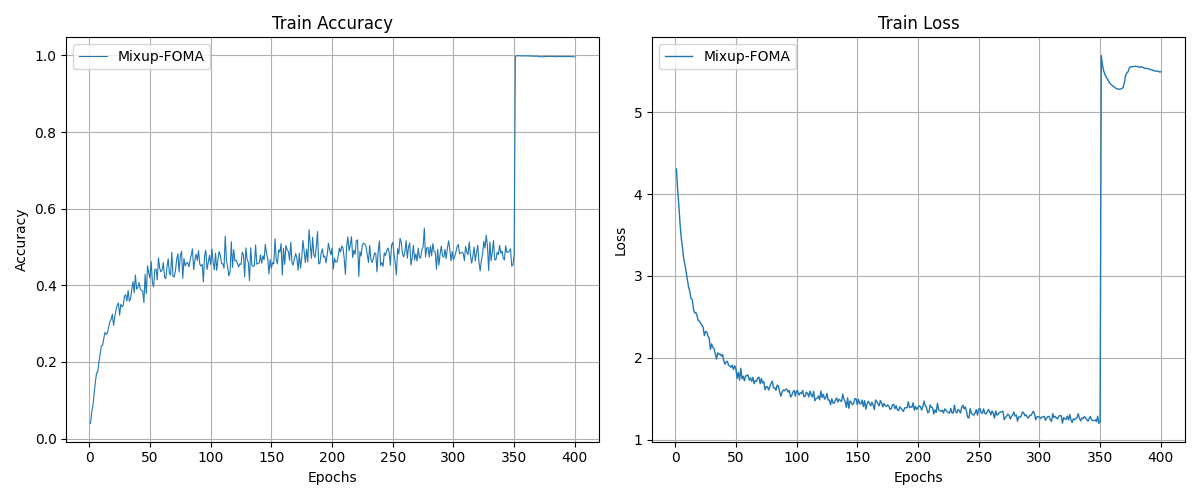
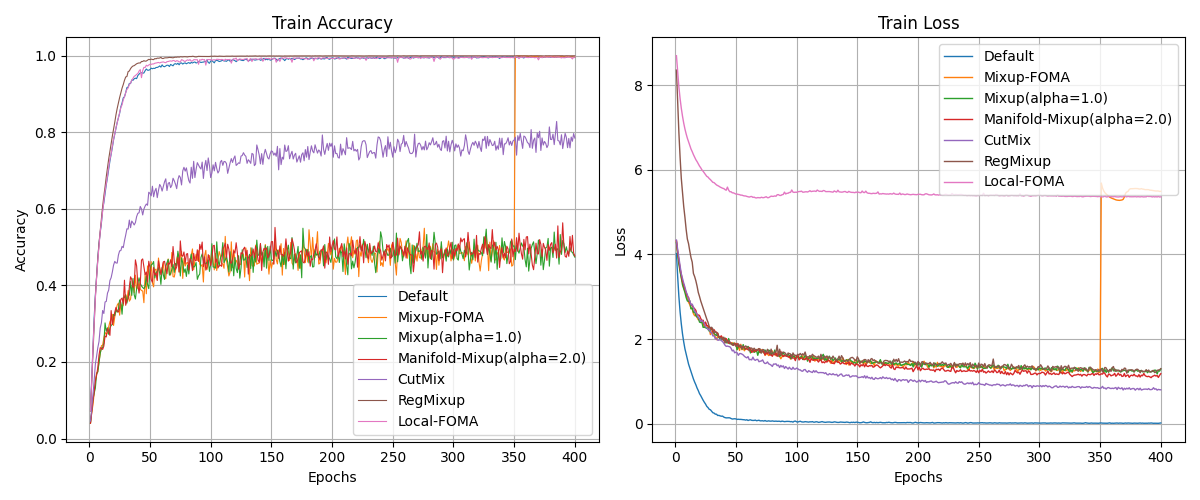
mixup-foma

diff --git a/result.py b/result.py
@@ -19,7 +19,7 @@ def main():
     
     augmentations = [
         # "Original",
-        # "Default",
+        "Default",
         # "PCA",
         # "SVD",
 
@@ -28,17 +28,18 @@ def main():
         # "Mixup+FOMA",
         # "Mixup(alpha=0.5)",
         "Mixup-FOMA",
+        "Mixup",
         # "Mixup(alpha=2.0)",
         # "Mixup(alpha=5.0)",
         # "Manifold-Mixup(alpha=0.5)",
         # "Manifold-Mixup(alpha=1.0)",
-        # "Manifold-Mixup",
+        "Manifold-Mixup",
         # "Manifold-Mixup(alpha=5.0)",
         # "Mixup-Curriculum",
 
-        # "CutMix",
+        "CutMix",
         # "AugMix",
-        # "RegMixup",
+        "RegMixup",
 
         # "Ent-Mixup",
         # "SK-Mixup",
@@ -48,7 +49,7 @@ def main():
         # "FOMA-Manifold-Mixup",
         # "FOMA",
         # "FOMA-scaleup-Mixup",
-        # "Local-FOMA",
+        "Local-FOMA",
         # "FOMA-Mixup",
         # "FOMA-knn-Curriculum",
         # "FOMA_latent_random",

diff --git a/print_acc.py b/print_acc.py
@@ -2,7 +2,7 @@ import pickle
 
 dic = {}
 
-pickle_file_path = f'./history/wide_resnet_28_10/FOMA-Mixup/cifar100_400_0.pickle'
+pickle_file_path = f'./history/wide_resnet_28_10/Mixup/cifar100_400_0.pickle'
 with open(pickle_file_path, 'rb') as f:
     dic = pickle.load(f)
 
@@ -11,5 +11,5 @@ for epoch in range(400):
     train_loss = dic["loss"][epoch]
     val_acc    = dic["val_accuracy"][epoch]
     val_loss   = dic["val_loss"][epoch]
-    if val_acc >= 0.78:
-        print(f"| {epoch+1} | Train loss: {train_loss:.3f} | Train acc: {train_acc:.3f} | Val loss: {val_loss:.3f} | Val acc: {val_acc:.3f} |")
+    # if val_acc >= 0.78:
+    print(f"| {epoch+1} | Train loss: {train_loss:.3f} | Train acc: {train_acc:.3f} | Val loss: {val_loss:.3f} | Val acc: {val_acc:.3f} |")

diff --git a/train.py b/train.py
@@ -74,10 +74,10 @@ augmentations = [
 ]
 
 def main():
-    for i in range(1, 2):
+    for i in range(1):
         parser = argparse.ArgumentParser()
-        parser.add_argument("--epochs",     type=int, default=400)
-        parser.add_argument("--data_type",  type=str, default="cifar100",  choices=["stl10", "cifar100", "cifar10"])
+        parser.add_argument("--epochs",     type=int, default=250)
+        parser.add_argument("--data_type",  type=str, default="cifar10",  choices=["stl10", "cifar100", "cifar10"])
         parser.add_argument("--model_type", type=str, default="wide_resnet_28_10", choices=["resnet18", "resnet101", "wide_resnet_28_10"])
         args = parser.parse_args() 
 

diff --git a/src/methods/foma.py b/src/methods/foma.py
@@ -140,7 +140,7 @@ def compute_foma_loss(model, images, labels, k, lambda_almp=1.0, device='cuda', 
     loss_orig = F.cross_entropy(logits_orig, labels)
 
     # FOMAによる特徴摂動
-    features_foma, labels_foma = local_foma(features, labels, num_classes=100, alpha=1.0, rho=0.9, k=k, scaleup=scaleup)
+    features_foma, labels_foma = local_foma(features, labels, num_classes=10, alpha=1.0, rho=0.9, k=k, scaleup=scaleup)
     logits_foma = model.linear(features_foma)
     loss_foma = F.cross_entropy(logits_foma, labels_foma)
 

diff --git a/test.py b/test.py
@@ -31,11 +31,11 @@ from src.methods.foma import foma
 
 augmentations = [
     # "Default",
-    "Mixup-FOMA",
+    # "Mixup-FOMA",
     # "Manifold-Mixup",
     # "Local-FOMA",
     # "FOMA-Mixup",
-    # "RegMixup",
+    "RegMixup",
     # "FOMA-scaleup"
 ]
 
